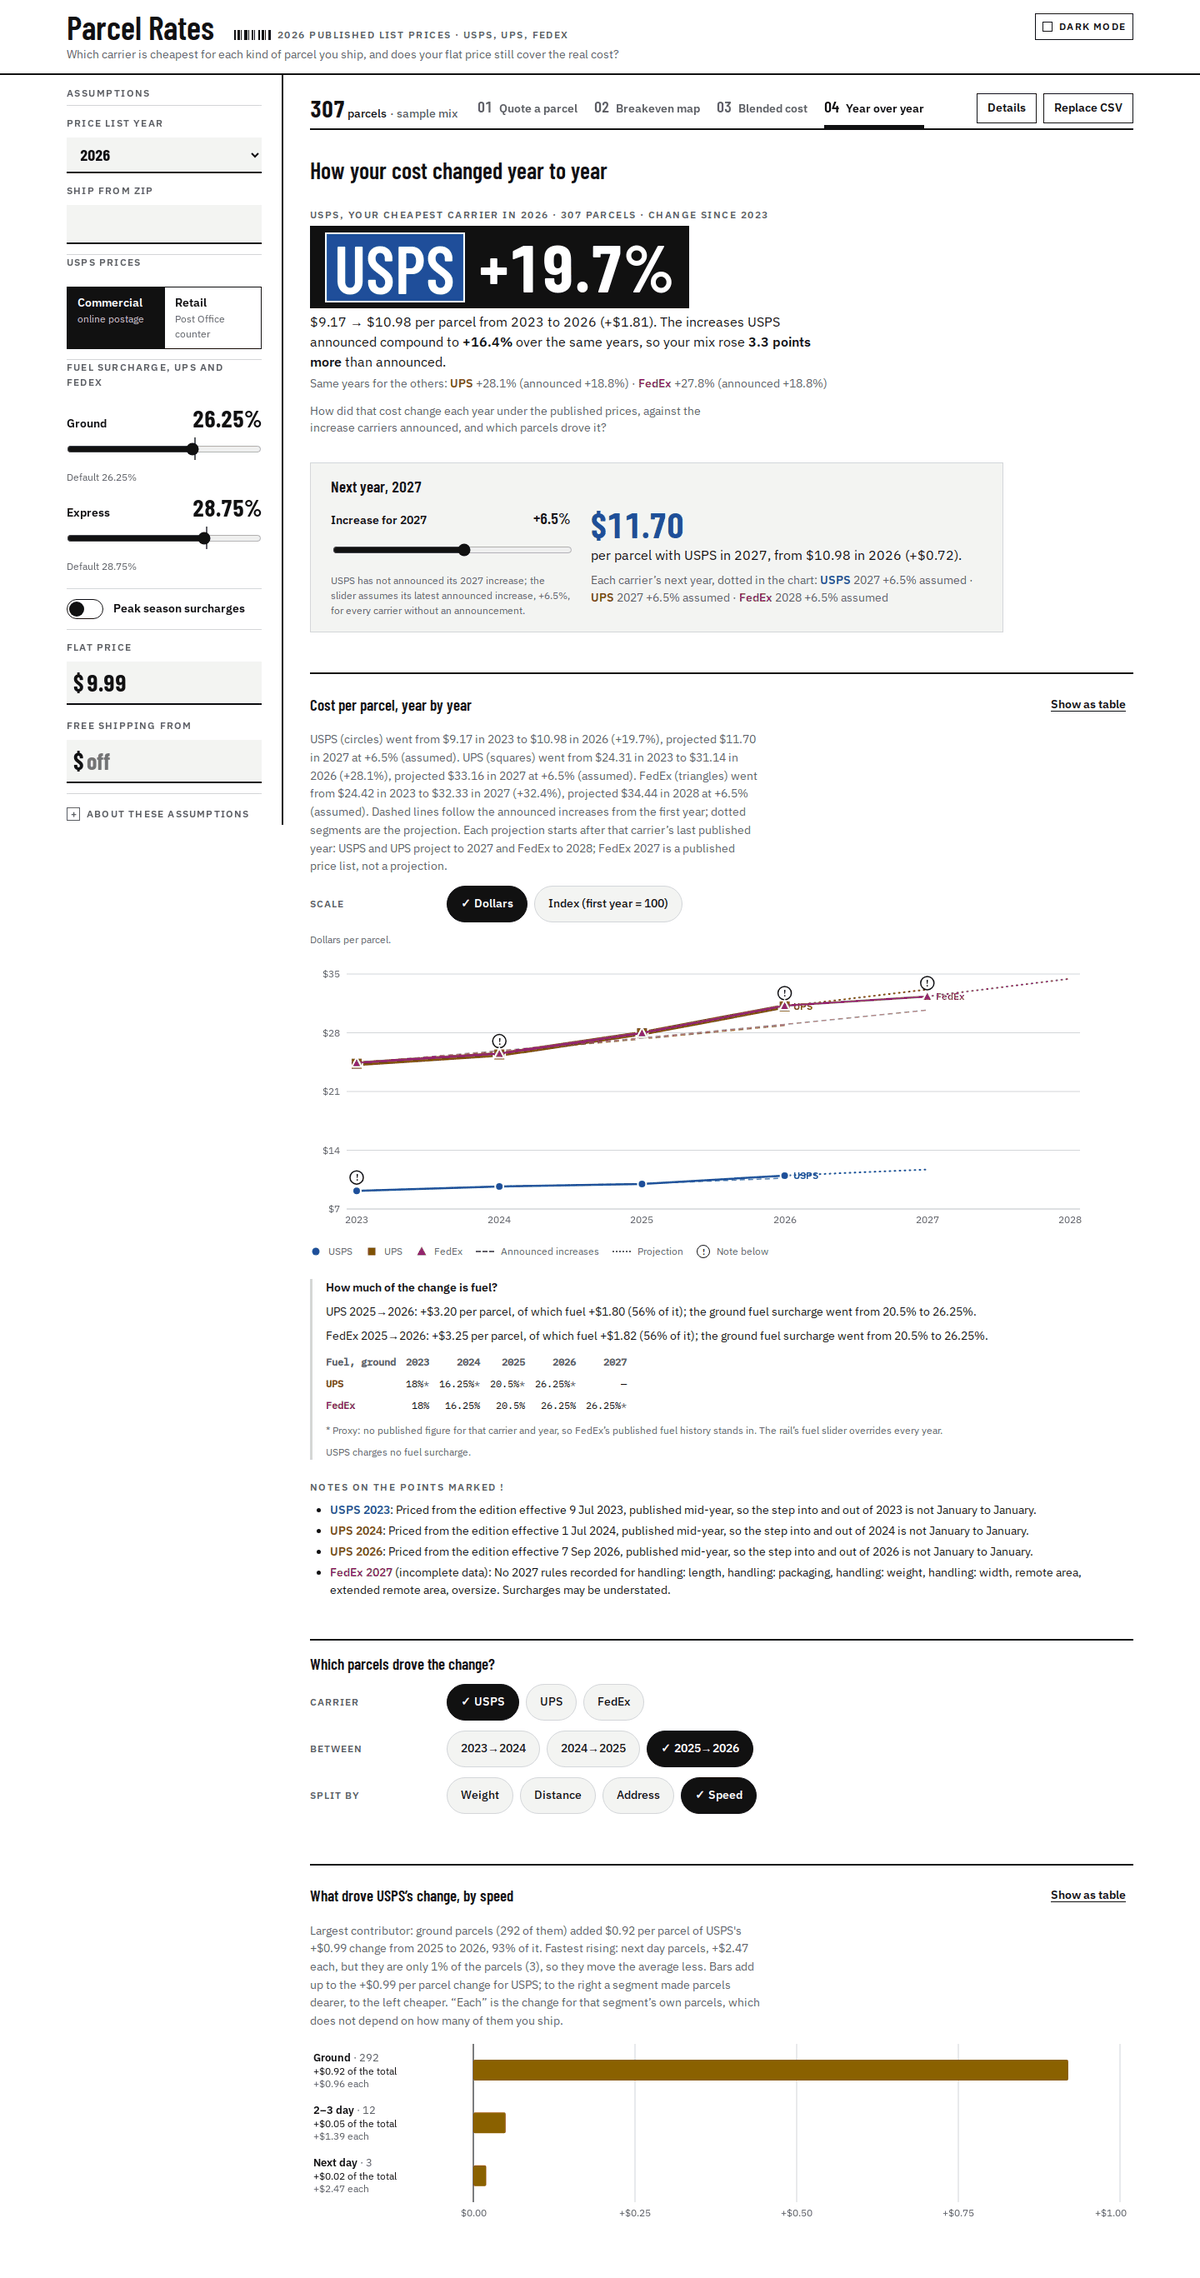
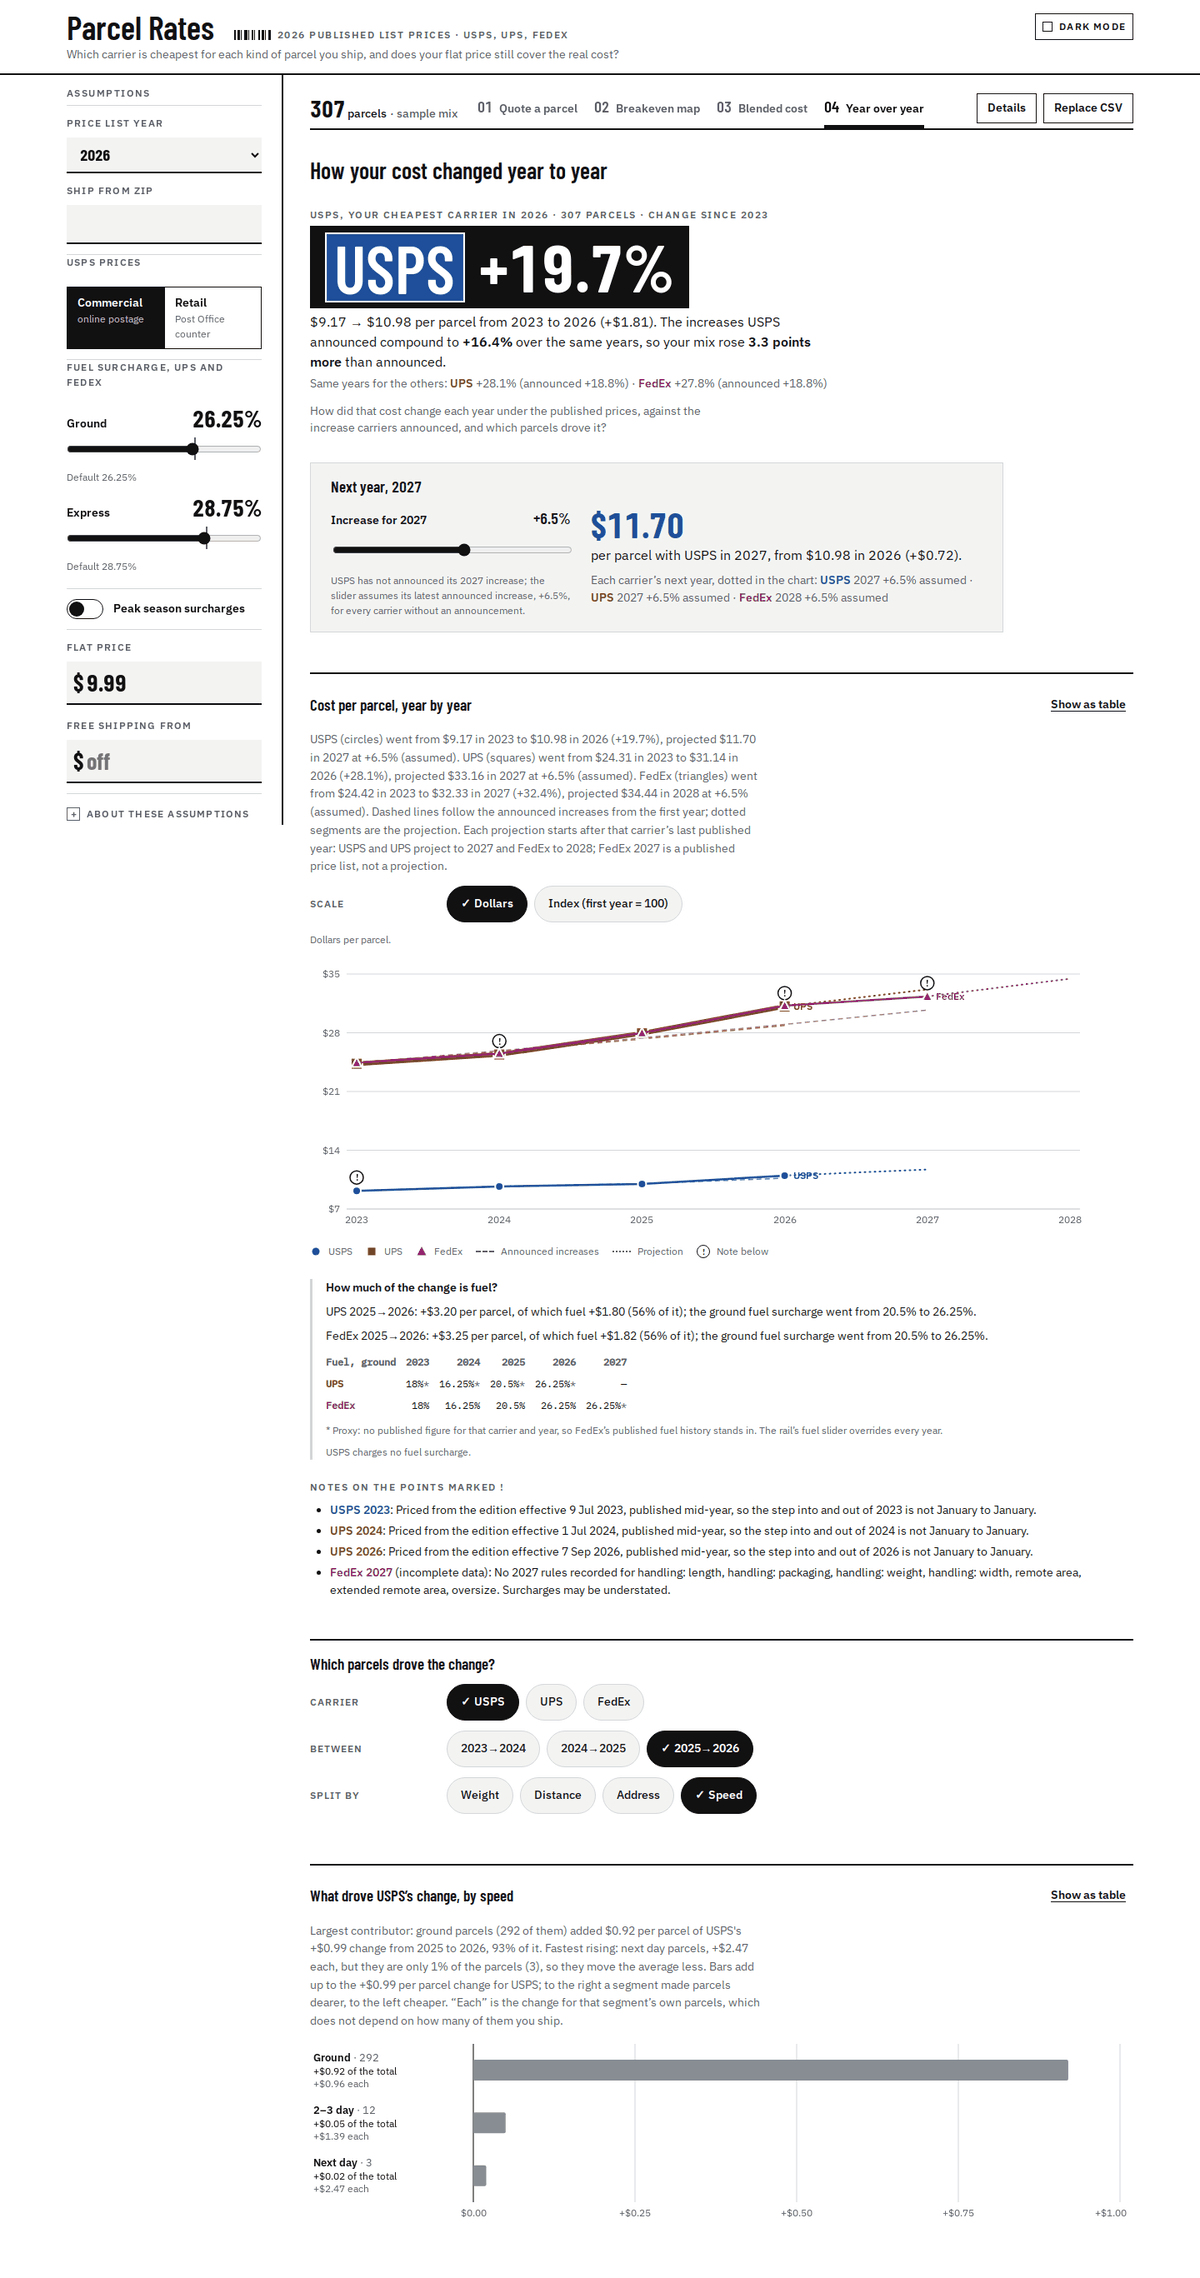
test(e2e): Q4 waits for its single answer; regenerate screenshots and README images
ux-review.md marks the #27 items fixed.

Refs #27

Changed region(s): [[0.37, 0.9039, 0.8942, 0.935]]

diff --git a/frontend/e2e/helpers.ts b/frontend/e2e/helpers.ts
@@ -35,14 +35,7 @@ export async function showView(page: Page, view: ViewId): Promise<void> {
     await expect(page.getByTestId("quote-answer")).toBeVisible();
     return;
   }
-  // Q4 asks twice: once with the controls, then again with the next-year increase its first
-  // answer suggests. Wait for the second, or the view is still dimmed as "stale".
-  const answer =
-    view === "yearly"
-      ? page.waitForResponse(
-          (r) => new URL(r.url()).pathname === "/api/yearly" && "next_year_increase_percent" in (r.request().postDataJSON() ?? {}),
-        )
-      : nextResponse(page, `/api/${view}`);
+  const answer = nextResponse(page, `/api/${view}`);
   await tab(page, view).click();
   expect((await answer).ok()).toBe(true);
   const id = { breakeven: "breakeven-answer", blended: "q3-answer", yearly: "q4-answer" }[view];

diff --git a/docs/ux-review.md b/docs/ux-review.md
@@ -80,9 +80,13 @@ Issues:
 - In the 27-50 lb band at zones 5-6 the winner alternates between UPS and
   FedEx almost every pound, so that band is a stack of thin slivers. This is
   the data (the two carriers are within cents of each other there) and the
-  sentence above already says "mostly". **Open**.
-- On phones the "FedEx" run label touches the cell edge at 800 mi. **Open**,
-  low: the label stays readable and the colour and tooltip agree.
+  sentence above already says "mostly". **Fixed** in #27: UPS and FedEx within
+  $0.10 are drawn as a striped tie with its own legend entry, and the dotted
+  UPS/FedEx edge the legend describes is back (its style had been lost, so
+  those edges were drawn as heavy as the USPS line).
+- On phones the "FedEx" run label touches the cell edge at 800 mi. **Fixed**
+  in #27: 10 px labels on phones, and a label that would not fit its column is
+  left out.
 - The saving legend is a grey ramp while the cells ramp in each carrier's hue.
   It reads as "darker = bigger saving" and is the same on every map. **Open**,
   low.
@@ -104,7 +108,11 @@ Issues:
   still smaller than the answer figure. **Open**, intended (DESIGN.md).
 - Surcharge kinds below about 1 % (remote area, extended remote area) are
   slivers too thin to see in the split chart, yet listed in the legend. The
-  table view has the numbers. **Open**, low.
+  table view has the numbers. **Fixed** in #27: a kind under 2 % of the
+  longest bar folds into "Other surcharges"; the table still lists every kind.
+- When one carrier wins every parcel, the best mix repeats it (a three-line
+  block and a duplicate margin-table row). **Fixed** in #27: one line, "USPS
+  wins every parcel", and no duplicate row.
 
 ### Q4, year over year (`q4-*`)
 
@@ -121,12 +129,13 @@ Issues:
 - Fuel table not keyboard-scrollable on phones (finding 5, **fixed**).
 - The view asks the API twice on open: once with the controls, then with the
   next-year increase the first answer suggests. For about 250 ms the answer is
-  dimmed as stale. **Open**, low: no layout shift, and the e2e helpers wait for
-  the second answer.
+  dimmed as stale. **Fixed** in #27: the backend applies the default increase
+  when the request has none, so the view asks once.
 - The driver bars use the warm `--q4-up` colour, close to UPS brown, even when
   the chart is about USPS. The chart title names the carrier and DESIGN.md
   keeps `--q4-up`/`--q4-down` apart from the money colours on purpose.
-  **Open**, low; worth revisiting with the palette.
+  **Fixed** in #27: `--q4-up` is a neutral graphite, lighter than `--q4-down`
+  in light mode and darker in dark mode.
 - The page is long on a phone (about 4,500 px). Each block has its own heading
   and the answer is first, so this is acceptable. **Open**.
 
